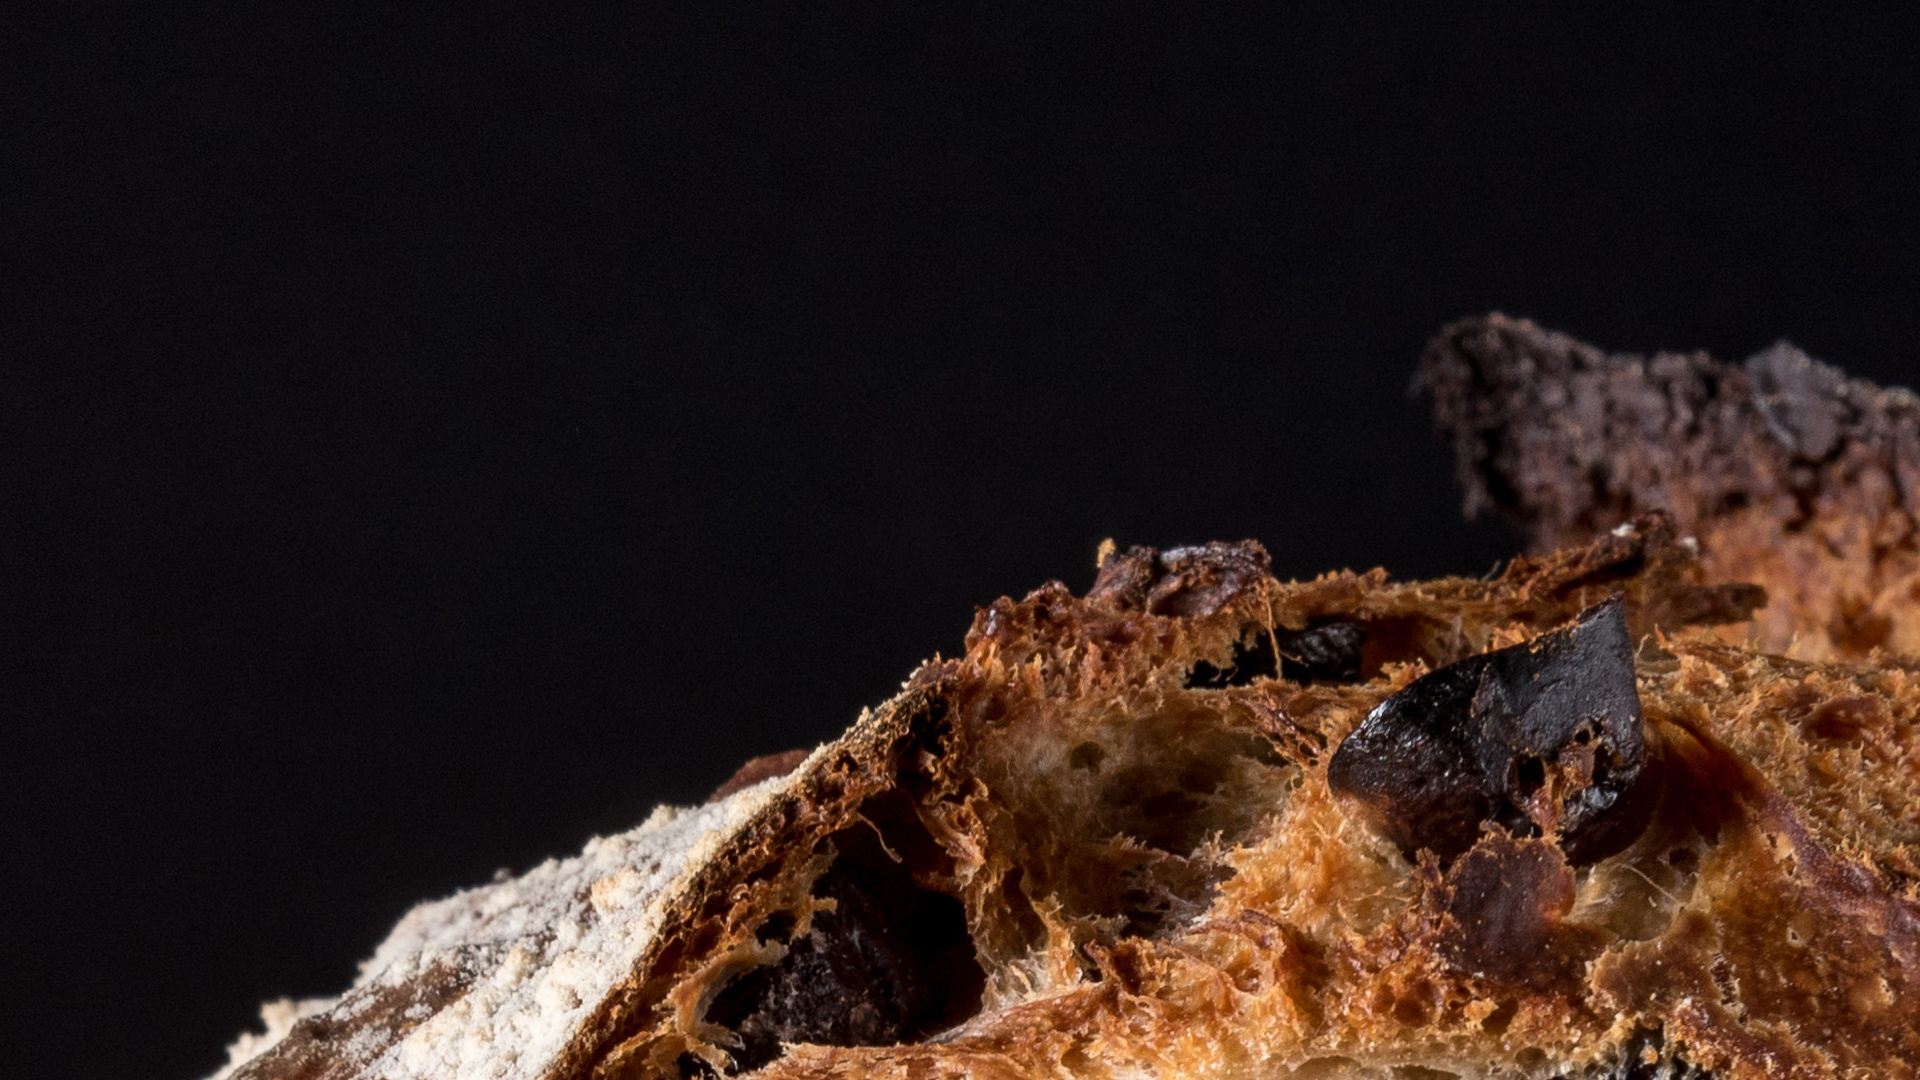
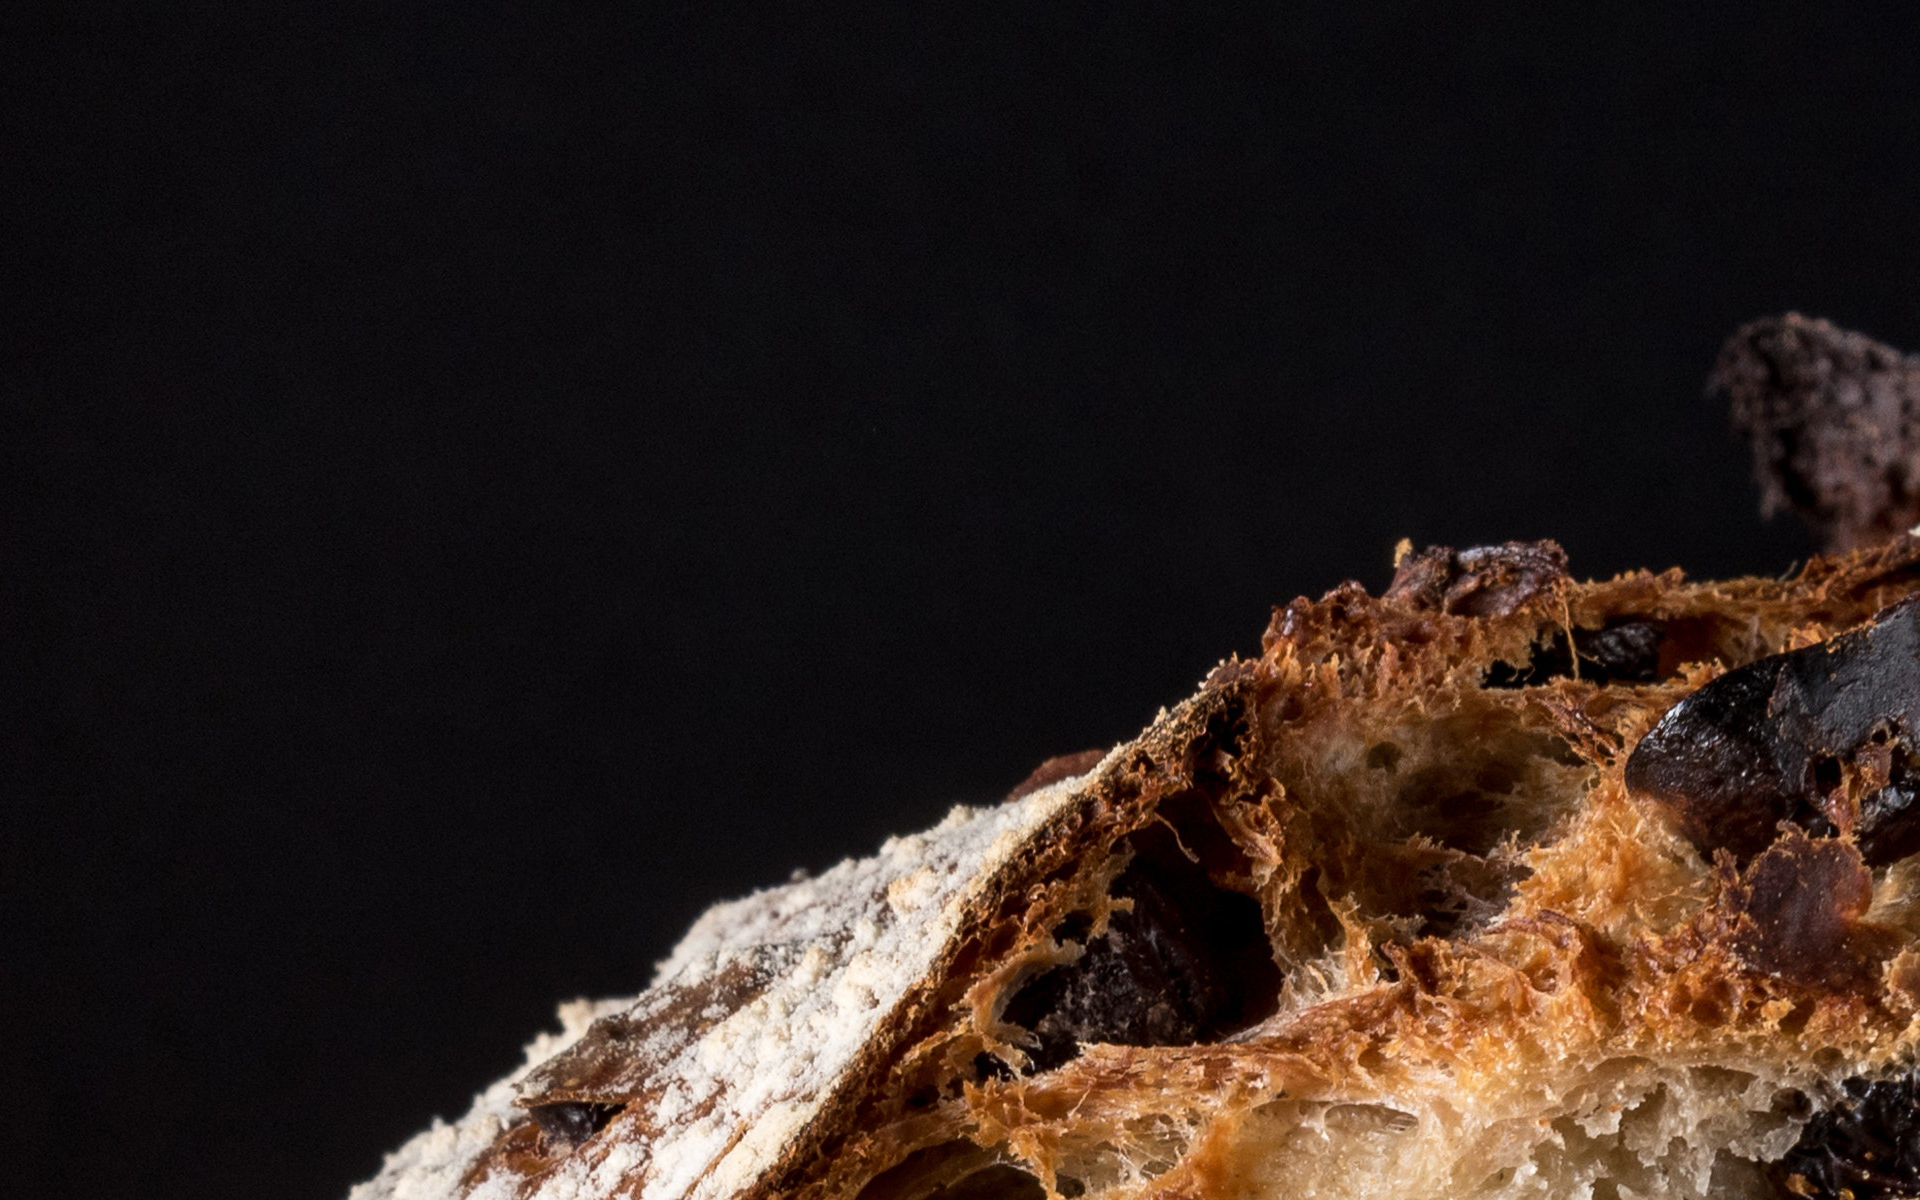
new bg, removed scrollbar

diff --git a/Driver/static/intro.css b/Driver/static/intro.css
@@ -6,7 +6,7 @@ body {
   color: #8f8f8f;
   margin: 0;
   padding: 0;
-  overflow-x: hidden;
+  overflow:hidden;
 }
 
 strong {
